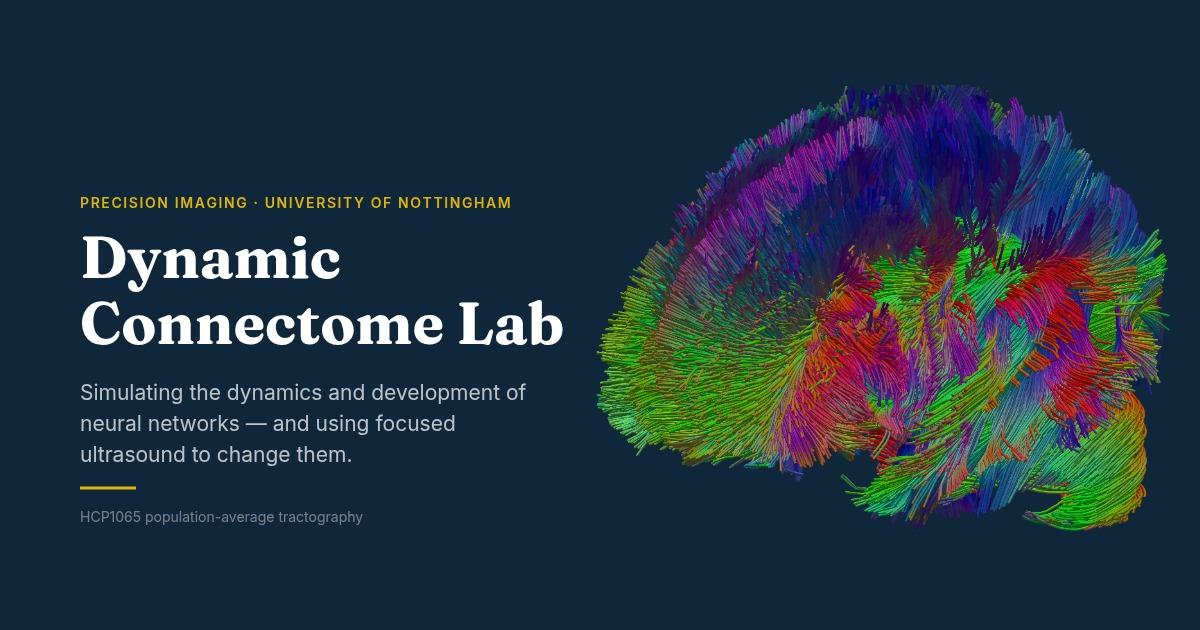
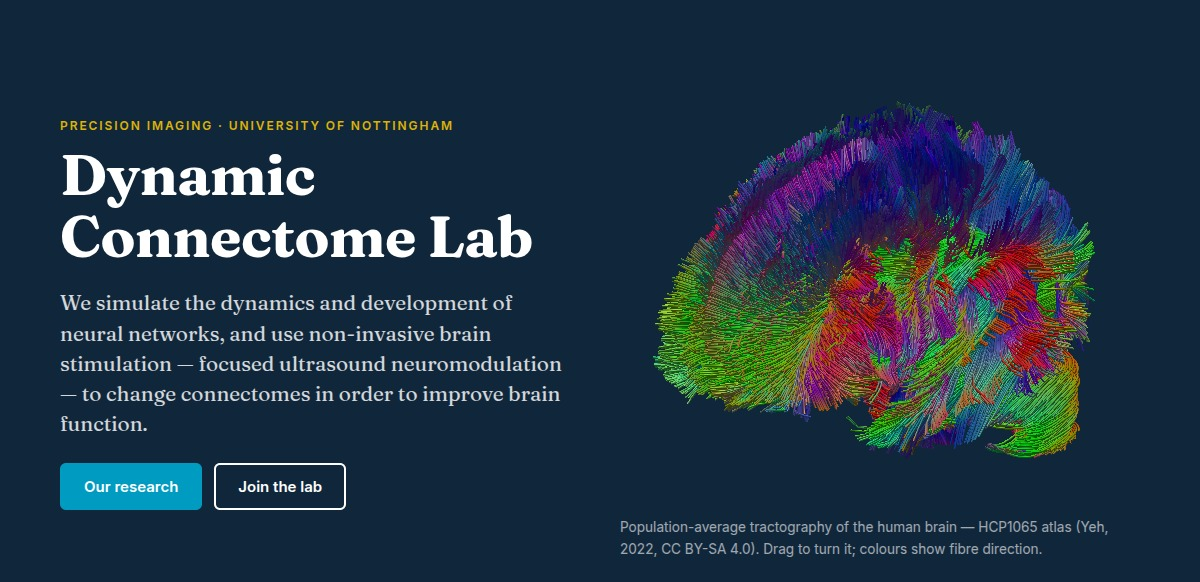
Photograph the home page for the card instead of redrawing it
The social card was assembled: the brain cropped off the canvas, then the
name, a blurb and a rule set beside it on a blank field. It had to be kept in
step with the page by hand, and it had already drifted — the blurb was a
condensed lede the page never carried.

- the card is now a shot of the hero itself, pinned to 1200x630 with its
  content centred, at one device pixel to one CSS pixel so nothing is rescaled
- the demo bar and the site header come out of frame, and the spin switch with
  them: it is a control, and a still of it reads as a brain switched off. It is
  still clicked, to settle the model for the shutter, then hidden
- the atlas credit stays in frame; the card is a use of the tractography and
  CC BY-SA 4.0 wants it attributed wherever it appears
- marker bumped so the preview services refetch, and the alt text now describes
  the page rather than the old composition

Changed region(s): [[0.0308, 0.1237, 0.9867, 0.866], [0.0308, 0.7732, 0.3083, 0.8969], [0.5242, 0.8969, 0.925, 0.9588]]

diff --git a/scripts/make-og.js b/scripts/make-og.js
@@ -1,29 +1,33 @@
 #!/usr/bin/env node
-/* make-og.js — the social sharing card, drawn from the site's own tractogram
- * rather than a stock picture.
+/* make-og.js — the social sharing card: a photograph of the home page's own
+ * hero, not a redrawing of it.
  *
  *   node scripts/make-og.js [--out public/assets/img/og.jpg]
  *
- * Serves public/, lets the home page draw and grow the brain exactly as a
- * visitor would see it, then crops the drawn brain out of the WebGL canvas and
- * composes the 1200×630 card inside the page — where the real Fraunces and
- * Inter are already loaded, so the wordmark is set in the site's own type.
+ * Serves public/, lets the hero draw and grow the brain exactly as a visitor
+ * would see it, hides the two pieces of chrome that have no business in a link
+ * preview — the demo bar and the sticky site header — and shoots the hero band
+ * at the card's own size. Whatever the hero looks like is what the card shows,
+ * so the two cannot drift apart.
  *
- * Re-run after changing the viewer, the palette or the wording. The output is
- * committed; /assets/* is served immutable, so if the file is ever replaced
- * rather than added, bump the marker on it in src/layout.js. */
+ * Re-run after changing the hero, the palette or the wording. The output is
+ * committed; /assets/* is served immutable, so when the file is replaced rather
+ * than added, bump the marker on it in src/layout.js. */
 'use strict';
 const fs = require('fs');
 const path = require('path');
 const http = require('http');
+const { requireChromium } = require('./lib/chrome');
 const { chromium } = require('playwright-core');
 
 const arg = (n, d) => { const i = process.argv.indexOf(n); return i > -1 && process.argv[i + 1] ? process.argv[i + 1] : d; };
 const ROOT = path.resolve(__dirname, '..');
 const DIR = path.join(ROOT, 'public');
 const OUT = path.resolve(ROOT, arg('--out', 'public/assets/img/og.jpg'));
-const { findChromium } = require('./lib/chrome');
-const CHROME = findChromium();
+
+/* The card's size is the viewport's, at one device pixel to one CSS pixel, so
+   the shot is the page at its own resolution with nothing rescaled. */
+const CARD = { w: 1200, h: 630 };
 
 const MIME = { '.html': 'text/html', '.css': 'text/css', '.js': 'text/javascript', '.svg': 'image/svg+xml', '.woff2': 'font/woff2', '.txt': 'text/plain', '.jpg': 'image/jpeg', '.png': 'image/png' };
 const server = http.createServer((req, res) => {
@@ -35,135 +39,52 @@ const server = http.createServer((req, res) => {
   fs.createReadStream(file).pipe(res);
 });
 
-/* Runs before any page script: keeps hold of the WebGL context so the brain can
-   be read back, since the drawing buffer is not preserved between frames. */
-const GRAB_CONTEXT = `
-  window.__gl = null; window.__canvas = null;
-  const orig = HTMLCanvasElement.prototype.getContext;
-  HTMLCanvasElement.prototype.getContext = function (type, opts) {
-    const ctx = orig.call(this, type, opts);
-    if (type && String(type).indexOf('webgl') === 0) { window.__gl = ctx; window.__canvas = this; }
-    return ctx;
-  };
+/* Demo bar and sticky header out — neither belongs in a link preview — and the
+   body padding the bar imposes with it. The hero is then pinned to the card's
+   height with its content centred, so the band is framed the same whatever the
+   lede and the credit line wrap to. */
+const CAPTURE_CSS = h => `
+  #pitch-bar, #pitch-bar + *, .site-header { display: none !important; }
+  body { padding-top: 0 !important; }
+  .hero { padding: 0 !important; height: ${h}px !important; display: grid; align-items: center; }
 `;
 
-const CARD = {
-  w: 1200, h: 630,
-  navy: '#10263B', gold: '#DEB406', white: '#FFFFFF',
-  eyebrow: 'PRECISION IMAGING · UNIVERSITY OF NOTTINGHAM',
-  title: ['Dynamic', 'Connectome Lab'],
-  blurb: 'Simulating the dynamics and development of neural networks — and using focused ultrasound to change them.',
-  credit: 'HCP1065 population-average tractography'
-};
-
-/* Composed in the page: crop the brain out of the WebGL canvas, then set the
-   words beside it in the site's own faces. */
-function compose(card) {
-  return new Promise(resolve => {
-    requestAnimationFrame(() => {
-      const gl = window.__gl, src = window.__canvas;
-      const px = new Uint8Array(src.width * src.height * 4);
-      gl.readPixels(0, 0, src.width, src.height, gl.RGBA, gl.UNSIGNED_BYTE, px);
-
-      // The drawn brain, found by what is not the background.
-      const bg = [16, 38, 59];
-      let minX = 1e9, maxX = -1, minY = 1e9, maxY = -1;
-      for (let y = 0; y < src.height; y++) for (let x = 0; x < src.width; x++) {
-        const i = (y * src.width + x) * 4;
-        if (Math.abs(px[i] - bg[0]) + Math.abs(px[i + 1] - bg[1]) + Math.abs(px[i + 2] - bg[2]) > 24) {
-          if (x < minX) minX = x; if (x > maxX) maxX = x;
-          if (y < minY) minY = y; if (y > maxY) maxY = y;
-        }
-      }
-      if (maxX < 0) return resolve({ error: 'nothing drawn on the canvas' });
-      const bw = maxX - minX + 1, bh = maxY - minY + 1;
-
-      // readPixels is bottom-up; put the crop the right way up on a scratch canvas.
-      const crop = document.createElement('canvas');
-      crop.width = bw; crop.height = bh;
-      const cim = crop.getContext('2d').createImageData(bw, bh);
-      for (let y = 0; y < bh; y++) {
-        const from = ((src.height - 1 - (minY + y)) * src.width + minX) * 4;
-        cim.data.set(px.subarray(from, from + bw * 4), y * bw * 4);
-      }
-      crop.getContext('2d').putImageData(cim, 0, 0);
-
-      const c = document.createElement('canvas');
-      c.width = card.w; c.height = card.h;
-      const g = c.getContext('2d');
-      g.fillStyle = card.navy;
-      g.fillRect(0, 0, card.w, card.h);
-
-      // The brain, right of centre, as large as its box allows.
-      const box = { x: 596, y: 30, w: 574, h: 570 };
-      const k = Math.min(box.w / bw, box.h / bh);
-      g.imageSmoothingQuality = 'high';
-      g.drawImage(crop, box.x + (box.w - bw * k) / 2, box.y + (box.h - bh * k) / 2, bw * k, bh * k);
-
-      // The words.
-      const left = 80;
-      g.textBaseline = 'alphabetic';
-      g.fillStyle = card.gold;
-      g.font = '600 14px Inter, sans-serif';
-      let ex = left;
-      for (const ch of card.eyebrow) { g.fillText(ch, ex, 208); ex += g.measureText(ch).width + 1.6; }
-
-      g.fillStyle = card.white;
-      g.font = '700 58px Fraunces, Georgia, serif';
-      card.title.forEach((line, i) => g.fillText(line, left, 278 + i * 66));
-
-      g.fillStyle = 'rgba(255,255,255,0.72)';
-      g.font = '400 21px Inter, sans-serif';
-      const words = card.blurb.split(' ');
-      let line = '', y = 400;
-      for (const w of words) {
-        const test = line ? line + ' ' + w : w;
-        if (g.measureText(test).width > 452 && line) { g.fillText(line, left, y); y += 31; line = w; }
-        else line = test;
-      }
-      if (line) g.fillText(line, left, y);
-
-      const rule = Math.max(458, y + 26);
-      g.strokeStyle = card.gold; g.lineWidth = 3;
-      g.beginPath(); g.moveTo(left, rule); g.lineTo(left + 56, rule); g.stroke();
-
-      g.fillStyle = 'rgba(255,255,255,0.42)';
-      g.font = '400 14px Inter, sans-serif';
-      g.fillText(card.credit, left, rule + 34);
-
-      resolve({ data: c.toDataURL('image/jpeg', 0.92), source: bw + '×' + bh });
-    });
-  });
-}
-
 (async () => {
-  if (!CHROME) { console.error('No Chromium found.'); process.exit(1); }
   await new Promise(r => server.listen(0, '127.0.0.1', r));
   const port = server.address().port;
   const browser = await chromium.launch({
-    executablePath: CHROME,
+    executablePath: requireChromium(),
     args: ['--no-sandbox', '--use-gl=angle', '--use-angle=swiftshader', '--enable-unsafe-swiftshader', '--ignore-gpu-blocklist']
   });
-  /* The brain is drawn in one column of the hero now, so at one device pixel
-     per CSS pixel the crop comes out smaller than the box it goes into on the
-     card. Rendering at two doubles the canvas behind it, so the card is made
-     by scaling the brain down rather than up. */
-  const ctx = await browser.newContext({ viewport: { width: 1440, height: 900 }, deviceScaleFactor: 2 });
-  await ctx.addInitScript(GRAB_CONTEXT);
+  const ctx = await browser.newContext({ viewport: { width: CARD.w, height: CARD.h }, deviceScaleFactor: 1 });
   const page = await ctx.newPage();
   page.on('pageerror', e => console.error('page error:', e.message));
   await page.goto(`http://127.0.0.1:${port}/`, { waitUntil: 'load', timeout: 30000 });
+  await page.addStyleTag({ content: CAPTURE_CSS(CARD.h) });
   await page.waitForFunction(() => document.getElementById('tractogram') &&
     document.getElementById('tractogram').classList.contains('is-ready'), { timeout: 300000 });
   await page.evaluate(() => document.fonts.ready);
-  await page.waitForTimeout(4000);   // let the strands finish growing
+  await page.waitForTimeout(6000);   // let the strands finish growing and the model turn to a lateral view
 
-  const out = await page.evaluate(compose, CARD);
-  if (out.error) { console.error(out.error); await browser.close(); server.close(); process.exit(1); }
+  /* Stop the spin so the frame is settled while the shot is taken, then take the
+     switch out of the picture: it is a control, and a still of it reads as a
+     brain that has been switched off. The click has to come before the hiding,
+     or there is nothing left to click. */
+  const spin = await page.$('.tract-spin');
+  if (spin) await spin.click().catch(() => {});
+  await page.addStyleTag({ content: '.tract-spin{display:none !important}' });
+  await page.waitForTimeout(400);
+
+  const box = await page.evaluate(() => {
+    const r = document.querySelector('.hero').getBoundingClientRect();
+    return { x: Math.round(r.x), y: Math.round(r.y), w: Math.round(r.width), h: Math.round(r.height) };
+  });
+  if (box.h < CARD.h - 1) { console.error(`the hero came out ${box.h}px tall, short of the ${CARD.h}px card`); await browser.close(); server.close(); process.exit(1); }
+
   fs.mkdirSync(path.dirname(OUT), { recursive: true });
-  fs.writeFileSync(OUT, Buffer.from(out.data.split(',')[1], 'base64'));
+  await page.screenshot({ path: OUT, type: 'jpeg', quality: 92, clip: { x: 0, y: box.y, width: CARD.w, height: CARD.h } });
   console.log(`wrote ${path.relative(ROOT, OUT)} — ${CARD.w}×${CARD.h}, ` +
-    `${(fs.statSync(OUT).size / 1024).toFixed(0)} KB, brain cropped from ${out.source}`);
+    `${(fs.statSync(OUT).size / 1024).toFixed(0)} KB, shot from the hero at ${box.w}×${box.h}`);
   await browser.close();
   server.close();
 })();

diff --git a/public/index.html b/public/index.html
@@ -13,10 +13,10 @@
   <meta property="og:site_name" content="Dynamic Connectome Lab">
   <meta property="og:title" content="Dynamic Connectome Lab — University of Nottingham">
   <meta property="og:description" content="Lab of Marcus Kaiser at the University of Nottingham: simulating the dynamics and development of neural networks, and using focused ultrasound neuromodulation to change connectomes and improve brain function.">
-  <meta property="og:image" content="https://dynamic-connectome-lab.basilicalabs.ai/assets/img/og.jpg?v=1.13">
+  <meta property="og:image" content="https://dynamic-connectome-lab.basilicalabs.ai/assets/img/og.jpg?v=1.14">
   <meta property="og:image:width" content="1200">
   <meta property="og:image:height" content="630">
-  <meta property="og:image:alt" content="The population-average wiring of the human brain, drawn in fibre-direction colour, beside the lab's name.">
+  <meta property="og:image:alt" content="The top of the lab's home page: its name and what it works on, beside the population-average wiring of the human brain drawn in fibre-direction colour.">
   <meta name="twitter:card" content="summary_large_image">
   <link rel="icon" href="/favicon.svg" type="image/svg+xml">
   <link rel="stylesheet" href="/fonts/fonts.css">

diff --git a/public/resources/index.html b/public/resources/index.html
@@ -13,10 +13,10 @@
   <meta property="og:site_name" content="Dynamic Connectome Lab">
   <meta property="og:title" content="Resources — Dynamic Connectome Lab">
   <meta property="og:description" content="Lab facilities, open datasets (C. elegans, macaque cortex, highway and airline networks) and program code (VERTEX, BioDynaMo, SINOMO and more) from the Dynamic Connectome Lab.">
-  <meta property="og:image" content="https://dynamic-connectome-lab.basilicalabs.ai/assets/img/og.jpg?v=1.13">
+  <meta property="og:image" content="https://dynamic-connectome-lab.basilicalabs.ai/assets/img/og.jpg?v=1.14">
   <meta property="og:image:width" content="1200">
   <meta property="og:image:height" content="630">
-  <meta property="og:image:alt" content="The population-average wiring of the human brain, drawn in fibre-direction colour, beside the lab's name.">
+  <meta property="og:image:alt" content="The top of the lab's home page: its name and what it works on, beside the population-average wiring of the human brain drawn in fibre-direction colour.">
   <meta name="twitter:card" content="summary_large_image">
   <link rel="icon" href="/favicon.svg" type="image/svg+xml">
   <link rel="stylesheet" href="/fonts/fonts.css">

diff --git a/public/research/index.html b/public/research/index.html
@@ -13,10 +13,10 @@
   <meta property="og:site_name" content="Dynamic Connectome Lab">
   <meta property="og:title" content="Research — Dynamic Connectome Lab">
   <meta property="og:description" content="Personalised brain stimulation, predicting intervention outcomes, connectome development, and connectome organisation — the research themes of the Dynamic Connectome Lab.">
-  <meta property="og:image" content="https://dynamic-connectome-lab.basilicalabs.ai/assets/img/og.jpg?v=1.13">
+  <meta property="og:image" content="https://dynamic-connectome-lab.basilicalabs.ai/assets/img/og.jpg?v=1.14">
   <meta property="og:image:width" content="1200">
   <meta property="og:image:height" content="630">
-  <meta property="og:image:alt" content="The population-average wiring of the human brain, drawn in fibre-direction colour, beside the lab's name.">
+  <meta property="og:image:alt" content="The top of the lab's home page: its name and what it works on, beside the population-average wiring of the human brain drawn in fibre-direction colour.">
   <meta name="twitter:card" content="summary_large_image">
   <link rel="icon" href="/favicon.svg" type="image/svg+xml">
   <link rel="stylesheet" href="/fonts/fonts.css">

diff --git a/public/publications/index.html b/public/publications/index.html
@@ -13,10 +13,10 @@
   <meta property="og:site_name" content="Dynamic Connectome Lab">
   <meta property="og:title" content="Publications — Dynamic Connectome Lab">
   <meta property="og:description" content="170 publications from the Dynamic Connectome Lab — journal articles, conference papers, book chapters and press coverage, searchable by year and keyword.">
-  <meta property="og:image" content="https://dynamic-connectome-lab.basilicalabs.ai/assets/img/og.jpg?v=1.13">
+  <meta property="og:image" content="https://dynamic-connectome-lab.basilicalabs.ai/assets/img/og.jpg?v=1.14">
   <meta property="og:image:width" content="1200">
   <meta property="og:image:height" content="630">
-  <meta property="og:image:alt" content="The population-average wiring of the human brain, drawn in fibre-direction colour, beside the lab's name.">
+  <meta property="og:image:alt" content="The top of the lab's home page: its name and what it works on, beside the population-average wiring of the human brain drawn in fibre-direction colour.">
   <meta name="twitter:card" content="summary_large_image">
   <link rel="icon" href="/favicon.svg" type="image/svg+xml">
   <link rel="stylesheet" href="/fonts/fonts.css">

diff --git a/public/team/index.html b/public/team/index.html
@@ -13,10 +13,10 @@
   <meta property="og:site_name" content="Dynamic Connectome Lab">
   <meta property="og:title" content="Team — Dynamic Connectome Lab">
   <meta property="og:description" content="The people of the Dynamic Connectome Lab at the University of Nottingham — principal investigator Marcus Kaiser, post-docs, PhD students and lab alumni.">
-  <meta property="og:image" content="https://dynamic-connectome-lab.basilicalabs.ai/assets/img/og.jpg?v=1.13">
+  <meta property="og:image" content="https://dynamic-connectome-lab.basilicalabs.ai/assets/img/og.jpg?v=1.14">
   <meta property="og:image:width" content="1200">
   <meta property="og:image:height" content="630">
-  <meta property="og:image:alt" content="The population-average wiring of the human brain, drawn in fibre-direction colour, beside the lab's name.">
+  <meta property="og:image:alt" content="The top of the lab's home page: its name and what it works on, beside the population-average wiring of the human brain drawn in fibre-direction colour.">
   <meta name="twitter:card" content="summary_large_image">
   <link rel="icon" href="/favicon.svg" type="image/svg+xml">
   <link rel="stylesheet" href="/fonts/fonts.css">

diff --git a/public/contact/index.html b/public/contact/index.html
@@ -13,10 +13,10 @@
   <meta property="og:site_name" content="Dynamic Connectome Lab">
   <meta property="og:title" content="Contact — Dynamic Connectome Lab">
   <meta property="og:description" content="Contact the Dynamic Connectome Lab — Precision Imaging, School of Medicine, University of Nottingham, Queen’s Medical Centre, Nottingham NG7 2UH.">
-  <meta property="og:image" content="https://dynamic-connectome-lab.basilicalabs.ai/assets/img/og.jpg?v=1.13">
+  <meta property="og:image" content="https://dynamic-connectome-lab.basilicalabs.ai/assets/img/og.jpg?v=1.14">
   <meta property="og:image:width" content="1200">
   <meta property="og:image:height" content="630">
-  <meta property="og:image:alt" content="The population-average wiring of the human brain, drawn in fibre-direction colour, beside the lab's name.">
+  <meta property="og:image:alt" content="The top of the lab's home page: its name and what it works on, beside the population-average wiring of the human brain drawn in fibre-direction colour.">
   <meta name="twitter:card" content="summary_large_image">
   <link rel="icon" href="/favicon.svg" type="image/svg+xml">
   <link rel="stylesheet" href="/fonts/fonts.css">

diff --git a/public/join-us/index.html b/public/join-us/index.html
@@ -13,10 +13,10 @@
   <meta property="og:site_name" content="Dynamic Connectome Lab">
   <meta property="og:title" content="Join us — Dynamic Connectome Lab">
   <meta property="og:description" content="Internship, master’s, PhD and post-doc opportunities in the Dynamic Connectome Lab at the University of Nottingham, with funding routes by country.">
-  <meta property="og:image" content="https://dynamic-connectome-lab.basilicalabs.ai/assets/img/og.jpg?v=1.13">
+  <meta property="og:image" content="https://dynamic-connectome-lab.basilicalabs.ai/assets/img/og.jpg?v=1.14">
   <meta property="og:image:width" content="1200">
   <meta property="og:image:height" content="630">
-  <meta property="og:image:alt" content="The population-average wiring of the human brain, drawn in fibre-direction colour, beside the lab's name.">
+  <meta property="og:image:alt" content="The top of the lab's home page: its name and what it works on, beside the population-average wiring of the human brain drawn in fibre-direction colour.">
   <meta name="twitter:card" content="summary_large_image">
   <link rel="icon" href="/favicon.svg" type="image/svg+xml">
   <link rel="stylesheet" href="/fonts/fonts.css">

diff --git a/public/404.html b/public/404.html
@@ -11,10 +11,10 @@
   <meta property="og:site_name" content="Dynamic Connectome Lab">
   <meta property="og:title" content="Page not found — Dynamic Connectome Lab">
   <meta property="og:description" content="That page is not here.">
-  <meta property="og:image" content="https://dynamic-connectome-lab.basilicalabs.ai/assets/img/og.jpg?v=1.13">
+  <meta property="og:image" content="https://dynamic-connectome-lab.basilicalabs.ai/assets/img/og.jpg?v=1.14">
   <meta property="og:image:width" content="1200">
   <meta property="og:image:height" content="630">
-  <meta property="og:image:alt" content="The population-average wiring of the human brain, drawn in fibre-direction colour, beside the lab's name.">
+  <meta property="og:image:alt" content="The top of the lab's home page: its name and what it works on, beside the population-average wiring of the human brain drawn in fibre-direction colour.">
   <meta name="twitter:card" content="summary_large_image">
   <link rel="icon" href="/favicon.svg" type="image/svg+xml">
   <link rel="stylesheet" href="/fonts/fonts.css">

diff --git a/src/layout.js b/src/layout.js
@@ -108,10 +108,10 @@ ${url ? `  <link rel="canonical" href="${url}">\n  <meta property="og:url" conte
   <meta property="og:site_name" content="Dynamic Connectome Lab">
   <meta property="og:title" content="${esc(fullTitle)}">
   <meta property="og:description" content="${esc(description)}">
-  <meta property="og:image" content="${BASE}/assets/img/og.jpg?v=1.13">
+  <meta property="og:image" content="${BASE}/assets/img/og.jpg?v=1.14">
   <meta property="og:image:width" content="1200">
   <meta property="og:image:height" content="630">
-  <meta property="og:image:alt" content="The population-average wiring of the human brain, drawn in fibre-direction colour, beside the lab's name.">
+  <meta property="og:image:alt" content="The top of the lab's home page: its name and what it works on, beside the population-average wiring of the human brain drawn in fibre-direction colour.">
   <meta name="twitter:card" content="summary_large_image">
   <link rel="icon" href="/favicon.svg" type="image/svg+xml">
   <link rel="stylesheet" href="/fonts/fonts.css">

diff --git a/README.md b/README.md
@@ -136,19 +136,22 @@ continues; check that view in a real browser.
 
 ## The social card
 
-`public/assets/img/og.jpg` is what a shared link unfurls to — the site's own
-tractogram rather than a stock picture. `npm run og` regenerates it: it serves
-`public/`, lets the home page draw and grow the brain exactly as a visitor
-sees it, crops the drawn brain out of the WebGL canvas and sets the wordmark
-beside it in the real Fraunces and Inter, inside the page where they are
-already loaded. It renders the page at two device pixels to one CSS pixel, so
-the brain — drawn in one column of the hero rather than across the page — is
-scaled down into the card rather than up. Re-run it after changing the viewer,
-the palette or the wording on the card.
+`public/assets/img/og.jpg` is what a shared link unfurls to — a photograph of
+the home page's own hero rather than a picture composed to look like it, so
+the two cannot drift apart. `npm run og` retakes it: it serves `public/`, lets
+the hero draw and grow the brain exactly as a visitor sees it, hides the demo
+bar, the site header and the spin switch — chrome and a control, none of which
+belongs in a link preview — pins the hero to 1200×630 with its content centred,
+and shoots it at one device pixel to one CSS pixel, so nothing is rescaled. The
+atlas credit stays in frame: the card is a use of the tractography and CC BY-SA
+4.0 wants it attributed wherever it appears. Re-run it after changing the hero,
+the palette or the wording.
 
-The pages point at it with a root-relative `og:image`. Every service that
-matters resolves that against the page URL, but if this ever moves to the
-lab's own domain it is worth making absolute.
+The pages point at it with an absolute `og:image` on the site's own domain,
+since several of the preview services will not resolve a relative one. It
+carries a `?v=` marker: `/assets/*` is served immutable for a year, so a retaken
+card only reaches the services that have already fetched one if that marker is
+bumped in `src/layout.js` with it.
 
 Two things had to give for the card to appear at all. The offer page and the
 new site carry `noindex,nofollow` and `robots.txt` still shuts every search
